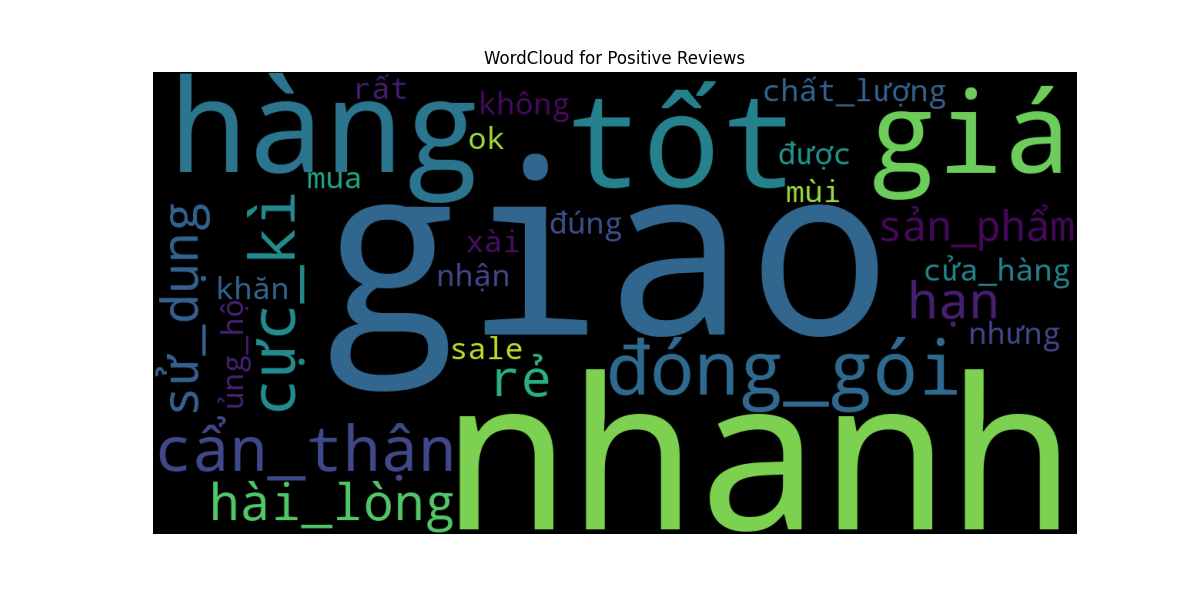
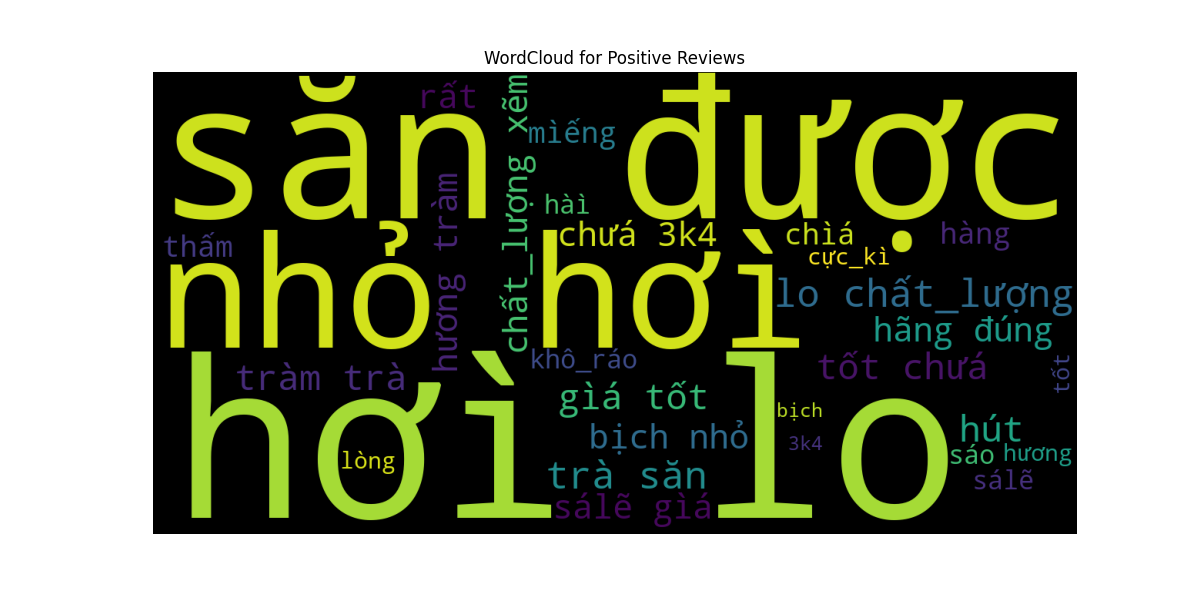
fix error cannot create wordcloud

Changed region(s): [[0.1233, 0.12, 0.8942, 0.9], [0.2467, 0.87, 0.2775, 0.9]]

diff --git a/RecommenApp/process/custom_function.py b/RecommenApp/process/custom_function.py
@@ -106,7 +106,7 @@ def get_all_reviews(product_id, spid):
         page += 1
         if page > last_page:
             break
-
+    print('Loaded')
     return all_reviews,reviews_count
 
 '''
@@ -384,35 +384,76 @@ def create_word_clouds(test_data):
     print(neg_word)
     print("Neutral words:")
     print(neu_word)
-
-    tfidf_pos = TfidfVectorizer(ngram_range=(1, 5), min_df=0.01, max_df=0.99, stop_words=wc_stop_ws, max_features=100,
-                                sublinear_tf=True, smooth_idf=True)
-    tfidf_neg = TfidfVectorizer(ngram_range=(1, 5), min_df=0.01, max_df=0.99, stop_words=wc_stop_ws, max_features=100,
-                                sublinear_tf=True, smooth_idf=True)
-    tfidf_neu = TfidfVectorizer(ngram_range=(1, 5), min_df=0.01, max_df=0.99, stop_words=wc_stop_ws, max_features=100,
-                                sublinear_tf=True, smooth_idf=True)
-
+    tfidf_pos, tfidf_neg, tfidf_neu = None, None, None
+    try:
+        tfidf_pos = TfidfVectorizer(ngram_range=(1, 5), min_df=0.05, max_df=0.9, stop_words=wc_stop_ws, max_features=100,
+                                    sublinear_tf=True, smooth_idf=True)
+        tfidf_neg = TfidfVectorizer(ngram_range=(1, 5), min_df=0.05, max_df=0.9, stop_words=wc_stop_ws, max_features=100,
+                                    sublinear_tf=True, smooth_idf=True)
+        tfidf_neu = TfidfVectorizer(ngram_range=(1, 5), min_df=0.05, max_df=0.9, stop_words=wc_stop_ws, max_features=100,
+                                    sublinear_tf=True, smooth_idf=True)
+    except Exception as e:
+        print(f"Cannot creating TF-IDF vectorizers: {e}")
+    
     tfidf_matrix_pos = create_tfidf_matrix(tfidf_pos, pos_word)
     tfidf_matrix_neg = create_tfidf_matrix(tfidf_neg, neg_word)
     tfidf_matrix_neu = create_tfidf_matrix(tfidf_neu, neu_word)
+    
+    feature_names_pos, feature_names_neg, feature_names_neu = [],[],[]
+    
+    try:
+        feature_names_pos = tfidf_pos.get_feature_names_out().tolist() if tfidf_matrix_pos is not None else []
+    except Exception as e:
+        print(f"Positive feature names empty")
+        feature_names_pos = []
+        
+    try:
+        feature_names_neg = tfidf_neg.get_feature_names_out().tolist() if tfidf_matrix_neg is not None else []
+    except Exception as e:
+        print(f"Positive feature names empty")
+        feature_names_neg = []
+        
+    try:   
+        feature_names_neu = tfidf_neu.get_feature_names_out().tolist() if tfidf_matrix_neu is not None else []
+    except Exception as e:
+        print(f"Positive feature names empty")
+        feature_names_neu = []
+    print(' end feature_names_')
+    if feature_names_pos is not None and len(feature_names_pos) > 0:
+        create_word_cloud(feature_names_pos, "Positive")
+    else:
+        print("No words available for Positive WordCloud. Skipping...")
 
-    feature_names_pos = tfidf_pos.get_feature_names_out() if tfidf_matrix_pos is not None else []
-    feature_names_neg = tfidf_neg.get_feature_names_out() if tfidf_matrix_neg is not None else []
-    feature_names_neu = tfidf_neu.get_feature_names_out() if tfidf_matrix_neu is not None else []
+    if feature_names_neg is not None and len(feature_names_neg) > 0:
+        create_word_cloud(feature_names_neg, "Negative")
+    else:
+        print("No words available for Negative WordCloud. Skipping...")
 
-    create_word_cloud(feature_names_pos, "Positive")
-    create_word_cloud(feature_names_neg, "Negative")
-    create_word_cloud(feature_names_neu, "Neutral")
+    if feature_names_neu is not None and len(feature_names_neu) > 0:
+        create_word_cloud(feature_names_neu, "Neutral")
+    else:
+        print("No words available for Neutral WordCloud. Skipping...")
 
 
 def create_tfidf_matrix(vectorizer, word_list):
-    if word_list.empty:
+    if word_list.empty or len(word_list) == 0:
+        print("No words available to process TF-IDF. Skipping...")
         return None
-    else:
-        return vectorizer.fit_transform(word_list)
+    try:
+        tfidf_matrix = vectorizer.fit_transform(word_list)
+        if tfidf_matrix.shape[1] == 0:
+            print("No terms remain after pruning. Try lowering min_df or increasing max_df.")
+            return None
+        return tfidf_matrix
+    except Exception as e:
+        print(f"Error creating TF-IDF matrix: {e}")
+        return None
 
 # common word in reviews data about specify product
 def save_feature_names_to_txt(feature_names, file_name):
+    if len(feature_names) == 0:
+        print(f"No features to save for {file_name}.")
+        return
     file_path = os.path.join('analyze', file_name+'.txt')
     try:
         with open(file_path, 'w', encoding='utf-8') as file:
@@ -423,24 +464,26 @@ def save_feature_names_to_txt(feature_names, file_name):
         print(f"An error occurred while saving feature names: {e}")
 
 def create_word_cloud(feature_names, sentiment):
-    print(f"{sentiment} Review :")
-    # print('cwc feature_names: ',feature_names)
+    
+    if not feature_names:
+        return
+    print(f"{sentiment} Reviews:")
+    
     save_feature_names_to_txt(feature_names, f'{sentiment} Reviews')
-    if len(feature_names) > 0:
-        try: 
-            cloud = " ".join(feature_names)
-            plt.figure(figsize=(12, 6))
-            plt.title(f"WordCloud for {sentiment} Reviews")
-            word_cloud = (wordcloud.WordCloud(max_words=30, background_color="black",
-                                            width=1200, height=600, mode="RGB").generate(str(cloud)))
-            plt.axis("off")
-            plt.imshow(word_cloud)
+    try: 
+        cloud = " ".join(feature_names)
+        plt.figure(figsize=(12, 6))
+        plt.title(f"WordCloud for {sentiment} Reviews")
+        word_cloud = (wordcloud.WordCloud(max_words=30, background_color="black",
+                                        width=1200, height=600, mode="RGB").generate(str(cloud)))
+        plt.axis("off")
+        plt.imshow(word_cloud)
 
-            img_path = os.path.join('img',f'{sentiment}_word_cloud.png')
-            plt.savefig(img_path)  
-            print(f"{sentiment} WordCloud saved at {img_path}")
-        except Exception as e:
-            print(f"An error occurred: {e}")
+        img_path = os.path.join('img',f'{sentiment}_word_cloud.png')
+        plt.savefig(img_path)  
+        print(f"{sentiment} WordCloud saved at {img_path}")
+    except Exception as e:
+        print(f"An error occurred: {e}")
     print("--------------------------------------")
 
 '''
